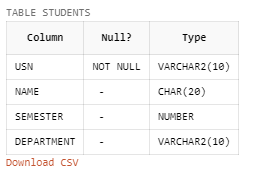
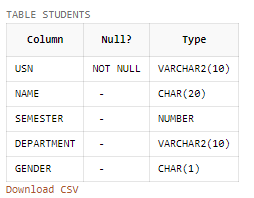
NO TIME TO DIE

diff --git a/Exercise-V(wip).md b/Exercise-V(wip).md
@@ -67,7 +67,7 @@ VALUES('&ISBN','&TITLE','&AURTHOR','&PUBLISHER');
 ```
 ```SQL
 INSERT INTO STUDENTS
-VALUES('&USN','&NAME','&SEMESTER','&DEPARTMENT');
+VALUES('&USN','&NAME','&SEMESTER','&DEPARTMENT','&GENDER');
 ```
 ```SQL
 INSERT INTO BORROWS
@@ -92,6 +92,14 @@ WHERE USN IN(SELECT USN FROM BORROWS
 <P ALIGN="CENTER"><IMG SRC="https://github.com/MXNXV-ERR/SQL_SCRIPTS/blob/main/IMGS/Q5D1.png?raw=True"></P>
 
 ### 2)Obtain the Names of female students who have borrowed “Database” books.
-
+```SQL
+SELECT NAME
+FROM STUDENTS
+WHERE USN IN(SELECT USN 
+             FROM  BORROWS
+             WHERE ISBN IN(SELECT ISBN 
+                           FROM BOOKS
+                           WHERE TITLE='DATABASE')) AND GENDER='F';
+```
 
 ### 3)Find the number of books borrowed by each student. Display the student details along with the number of books.
